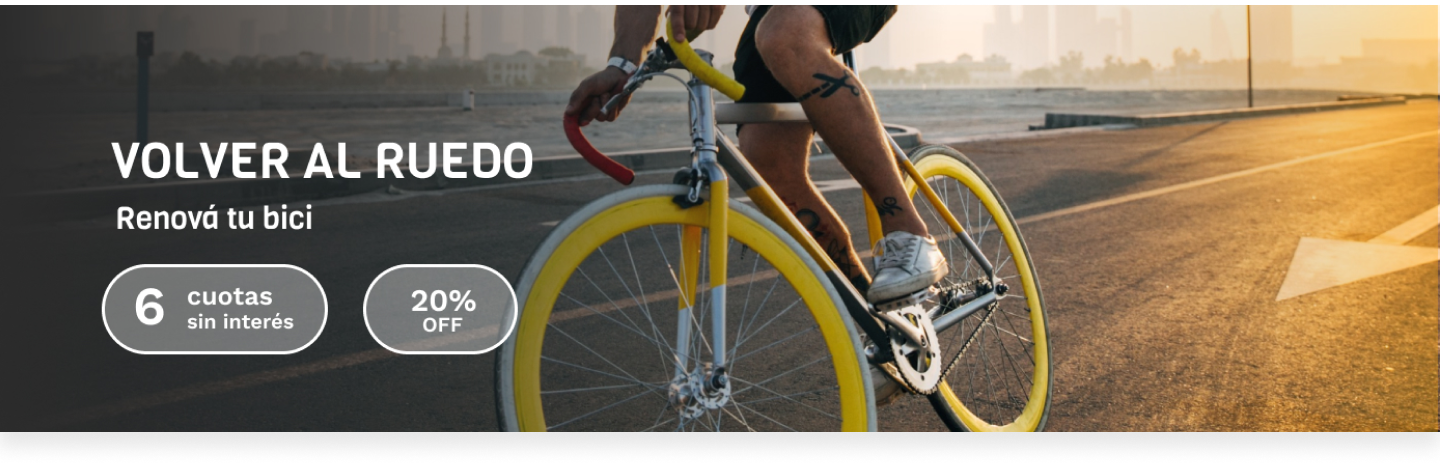
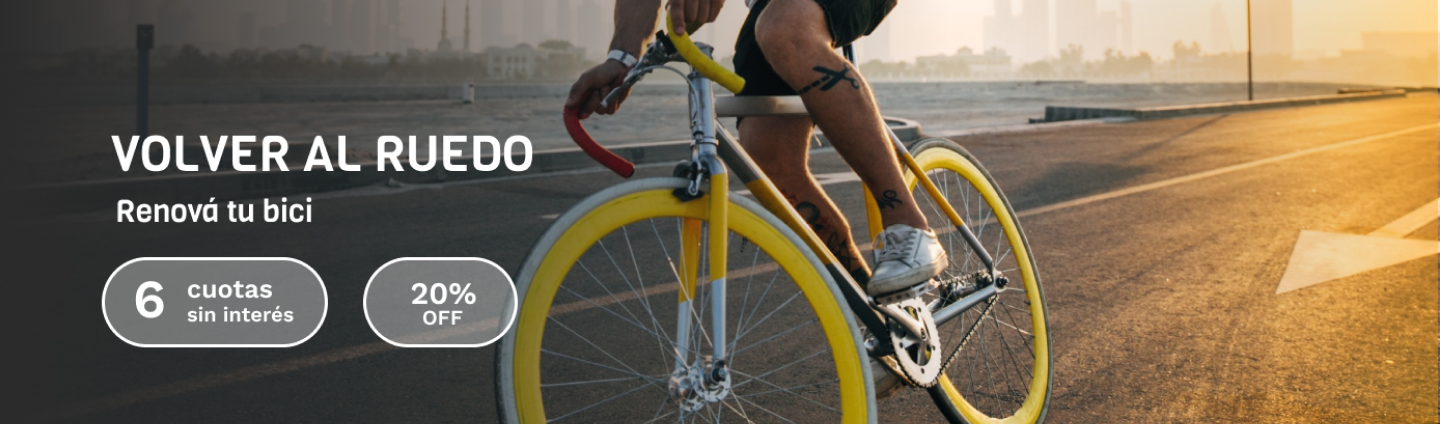
Iconos en header cargados

diff --git a/index.html b/index.html
@@ -14,56 +14,45 @@
 
         <div class="caja header">
             <div class="header-fila hf1">
-                <div class="caja-header menu-icon">icon</div>
-                <div class="caja-header mi-tienda">
-                    <span class="titulo">Mi Tienda</span>
+                <img class="caja-header menu-icon" src="./public/menu.svg" alt="menú hamburguesa">
+                <span class="caja-header mi-tienda titulo">Mi Tienda</span>
+                <div class="caja-header search-box">
+                    <img src="./public/lupa.svg" alt="Lupa">
                 </div>
-                <div class="caja-header search-box"></div>
                 <div class="icon-group">
                     <div class="caja-header mi-cuenta">
-                        <div class="usuario-icon">icon 1</div>
-                        <div class="mi-cuenta-texto">Mi cuenta</div>
+                        <img class="usuario-icon" src="./public/usuario.svg" alt="Ícono de usuario">
+                        <span class="mi-cuenta-texto">Mi cuenta</span>
                     </div>
-                    <div class="caja-header carrito">
-                        <div>icon 2</div>
-                    </div>
+                    <img class="caja-header carrito" src="./public/carrito.svg" alt="Carrito de compras">
                 </div>
             </div>
 
             <div class="header-fila hf2">
-                <div class="caja-header ch2 muebles">Mueble</div>
-                <div class="caja-header ch2 calzado">Calzado</div>
-                <div class="caja-header ch2 colchones">Colchones</div>
-                <div class="caja-header ch2 herramientas">Herramientas</div>
+                <span class="caja-header ch2 muebles">Mueble</span>
+                <span class="caja-header ch2 calzado">Calzado</span>
+                <span class="caja-header ch2 colchones">Colchones</span>
+                <span class="caja-header ch2 herramientas">Herramientas</span>
+
                 <div class="icon-group">
-                    <div class="caja-header ofertas">Ofertas</div>
-                    <div class="caja-header icon">icon</div>
+                    <span class="caja-header ofertas">Ofertas</span>
+                    <img class="caja-header icon" src="./public/fire.svg" alt="">
                 </div>
             </div>
         </div>
 
-        <div class="caja carousel"
-            data-flickity='{ "cellAlign": "left", "contain": true, "prevNextButtons": false, "autoPlay": 2500 }'>
-            <div>
-                <img src="./public/Frame77.png" alt="Bici nueva">
-            </div>
-            <div>
-                <img src="./public/Frame77.png" alt="Bici nueva">
-            </div>
-            <div>
-                <img src="./public/Frame77.png" alt="Bici nueva">
-            </div>
-            <div>
-                <img src="./public/Frame77.png" alt="Bici nueva">
-            </div>
+        <div class="caja carousel" data-flickity='{ "cellAlign": "left", "contain": true, "prevNextButtons": false }'>
+            <img src="./public/Frame77.png" alt="Bici nueva">
+            <img src="./public/Frame77.png" alt="Bici nueva">
+            <img src="./public/Frame77.png" alt="Bici nueva">
+            <img src="./public/Frame77.png" alt="Bici nueva">
         </div>
 
 
         <div class="caja tendencias">
             <div class="posicionamiento contenedor-vidriera">
                 <span class="titulo">TENDENCIAS</span>
-                <div class="container-vidriera"
-                    data-flickity='{ "cellAlign": "left", "contain": true, "pageDots": false }'>
+                <div class="container-vidriera" data-flickity='{ "cellAlign": "left", "contain": true }'>
                     <div class="vidriera-card vw-sombra">
                         <img class="articulo" src="./public/articulo.svg" alt="Articulo">
                         <div>Samsung Smart Tv 75" UHD</div>
@@ -125,9 +114,8 @@
                 <span class="titulo">LAS MÁS VENDIDAS</span>
 
 
-                <div class="container-vidriera"
-                    data-flickity='{ "cellAlign": "left", "contain": true, "pageDots": false, "adaptiveHeight": true }'>
-                    
+                <div class="container-vidriera" data-flickity='{ "cellAlign": "left", "contain": true }'>
+
                     <div class="vidriera-card vw-sombra">
                         <img class="articulo" src="./public/articulo.svg" alt="Articulo">
                         <div>Samsung Smart Tv 75" UHD</div>

diff --git a/estilos.css b/estilos.css
@@ -23,6 +23,66 @@ body {
     padding: 14px 0px 14px 0px;
 }
 
+.header-fila {
+    padding: 0px 70px 0px 70px;
+    display: flex;
+    flex-flow: row wrap;
+}
+
+.hf1 {
+    height: 40px;
+    display: flex;
+    flex-direction: row;
+    justify-content: space-between;
+    align-items: center;
+}
+
+.hf2 {
+    margin-top: 34px;
+    height: 19px;
+    display: flex;
+    flex-direction: row;
+    justify-content: flex-end;
+    align-items: center;
+}
+
+.mi-tienda {
+    height: 38px;
+    display: flex;
+    align-items: center;
+}
+
+.search-box {
+    min-width: 328px;
+    margin: 0px 300px 0px 350px;
+    height: 40px;
+    display: flex;
+    align-items: center;
+    flex-grow: 1;
+}
+
+.icon-group {
+    height: 22px;
+    display: flex;
+    flex-direction: row;
+    justify-content: space-between;
+}
+
+.mi-cuenta {
+    margin-right: 25px;
+    display: flex;
+    flex-direction: row;
+    justify-content: space-between;
+}
+
+.usuario-icon {
+    margin-right: 10px;
+}
+
+.ch2 {
+    margin-right: 20px;
+}
+
 .carousel {
     height: 427px;
 }
@@ -32,9 +92,9 @@ body {
     display: block;
 }
 
-/* position dots in carousel */
-.flickity-page-dots {
+.carousel .flickity-page-dots {
     bottom: 0px;
+    margin-bottom: 5px;
 }
 
 /* white circles */
@@ -329,72 +389,6 @@ button {
     }
 }
 
-
-.header-fila {
-    padding: 0px 70px 0px 70px;
-    background-color: #d8d8d830;
-    display: flex;
-    flex-flow: row wrap;
-}
-
-.hf1 {
-    height: 40px;
-    display: flex;
-    flex-direction: row;
-    justify-content: space-between;
-    align-items: center;
-}
-
-.hf2 {
-    margin-top: 34px;
-    height: 19px;
-    display: flex;
-    flex-direction: row;
-    justify-content: flex-end;
-    align-items: center;
-}
-
-.mi-tienda {
-    height: 38px;
-    display: flex;
-    align-items: center;
-}
-
-.search-box {
-    min-width: 328px;
-    margin: 0px 300px 0px 350px;
-    height: 40px;
-    display: flex;
-    align-items: center;
-    flex-grow: 1;
-}
-
-.caja-header {
-    border: 1px solid blue;
-}
-
-.icon-group {
-    height: 22px;
-    display: flex;
-    flex-direction: row;
-    justify-content: space-between;
-}
-
-.mi-cuenta {
-    margin-right: 25px;
-    display: flex;
-    flex-direction: row;
-    justify-content: space-between;
-}
-
-.usuario-icon {
-    margin-right: 10px;
-}
-
-.ch2 {
-    margin-right: 20px;
-}
-
 @media (max-width: 360px) {
     .flex-container {
         height: 2445px;
@@ -431,24 +425,12 @@ button {
         flex-shrink: 0;
     }
 
-    .carousel img {
-        max-width: 100%;
-        height: auto;
-    }
-
-    /* position dots in carousel */
-    .flickity-page-dots {
-        bottom: 0px;
-    }
-
     /* white circles */
     .flickity-page-dots .dot {
         width: 10px;
         height: 10px;
         opacity: 1;
-        background: transparent;
         border: 1.5px solid white;
-        box-sizing: border-box;
     }
 
     .posicionamiento {
@@ -464,6 +446,10 @@ button {
     .tendencias {
         margin-top: 40px;
         height: 380px;
+    }
+
+    .container-vidriera > .flickity-button{
+        display: none;
     }
 
     .vidriera-card {
